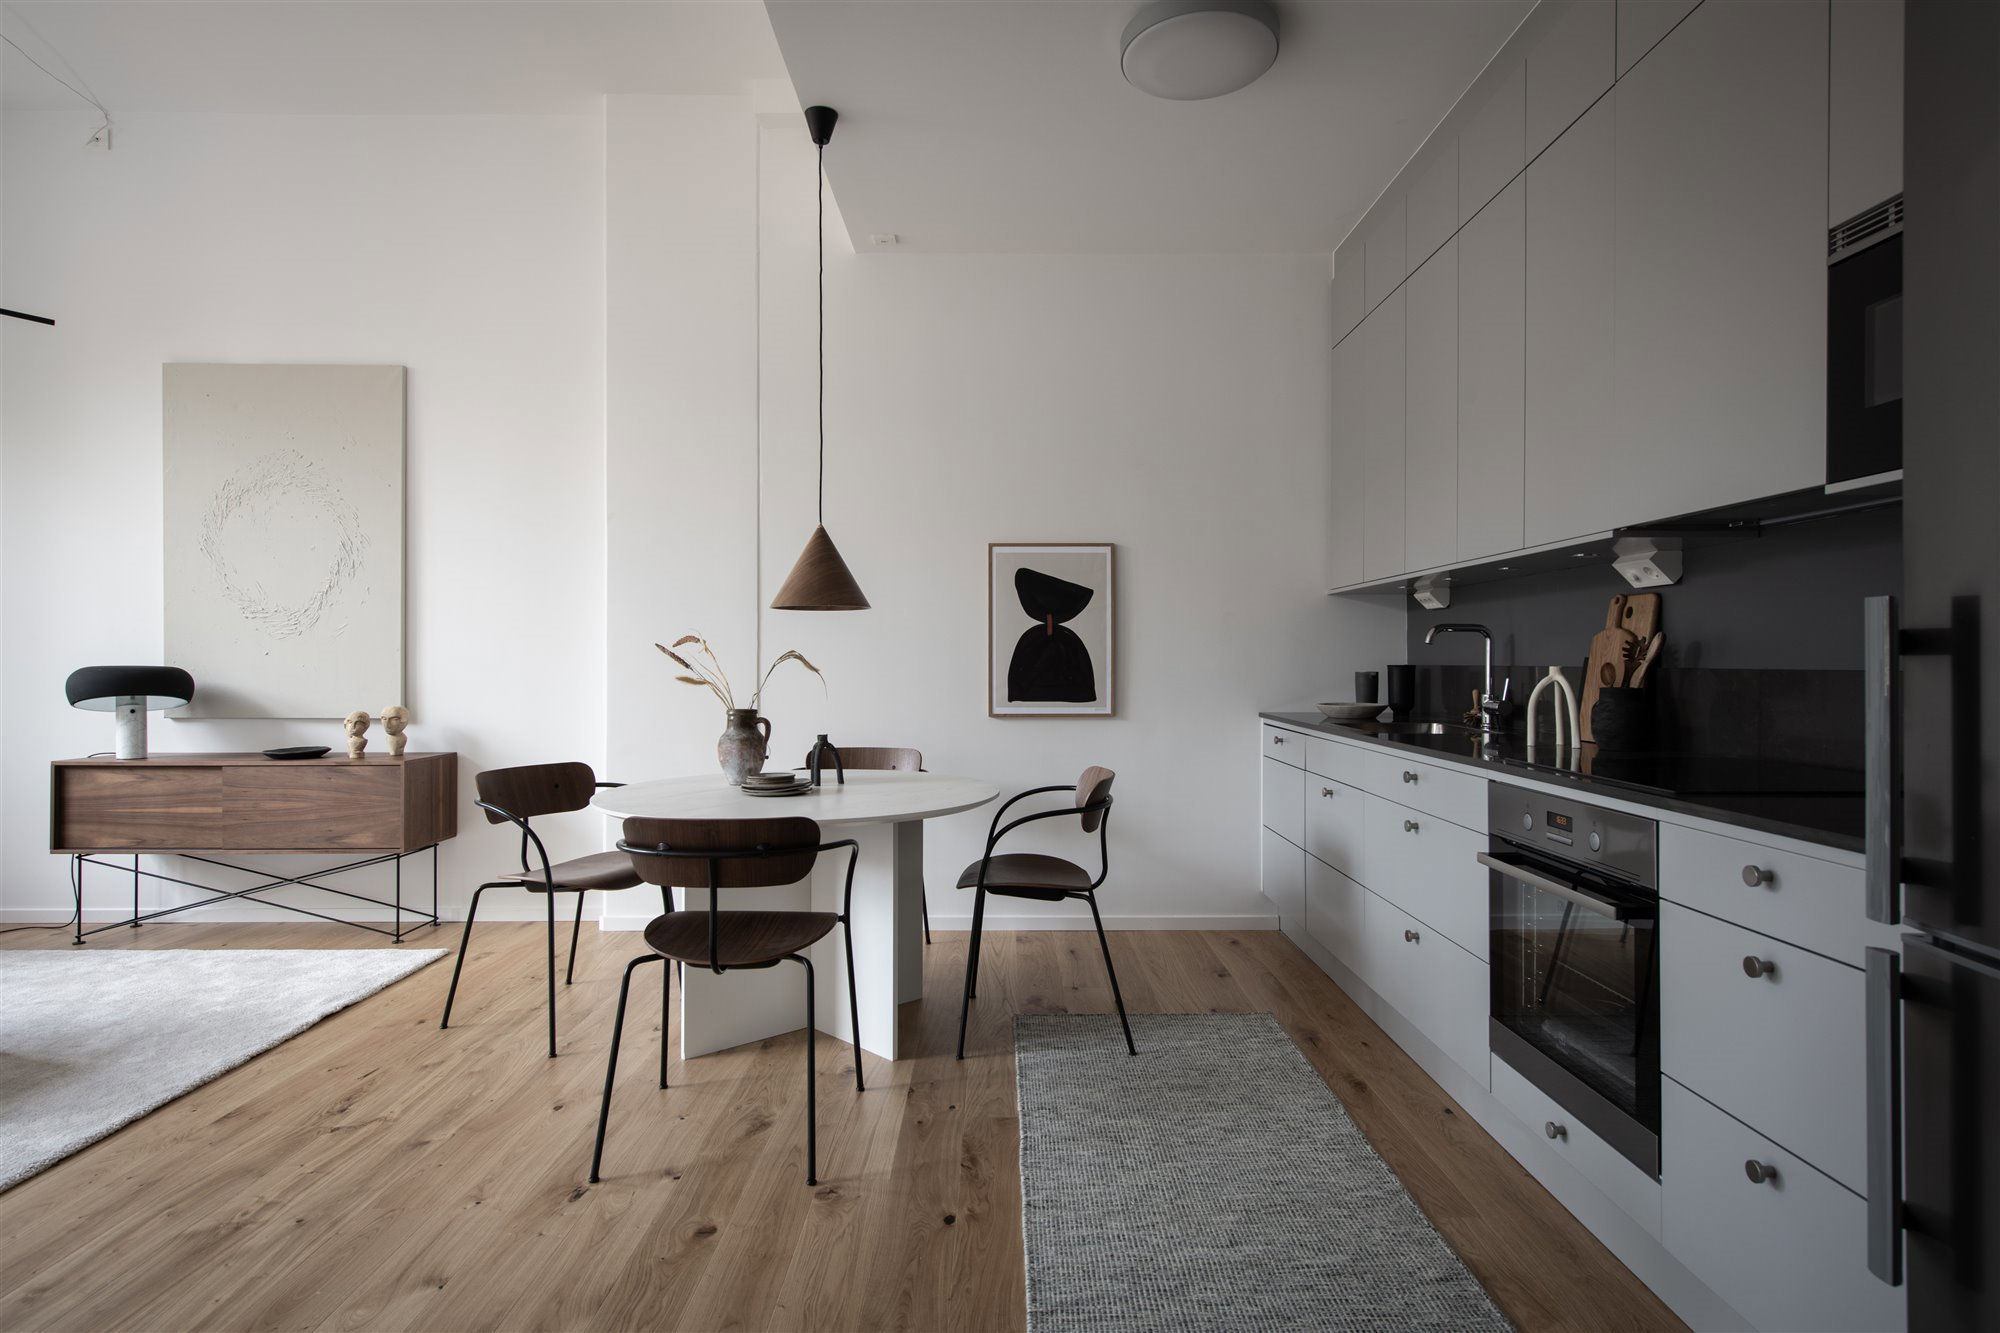
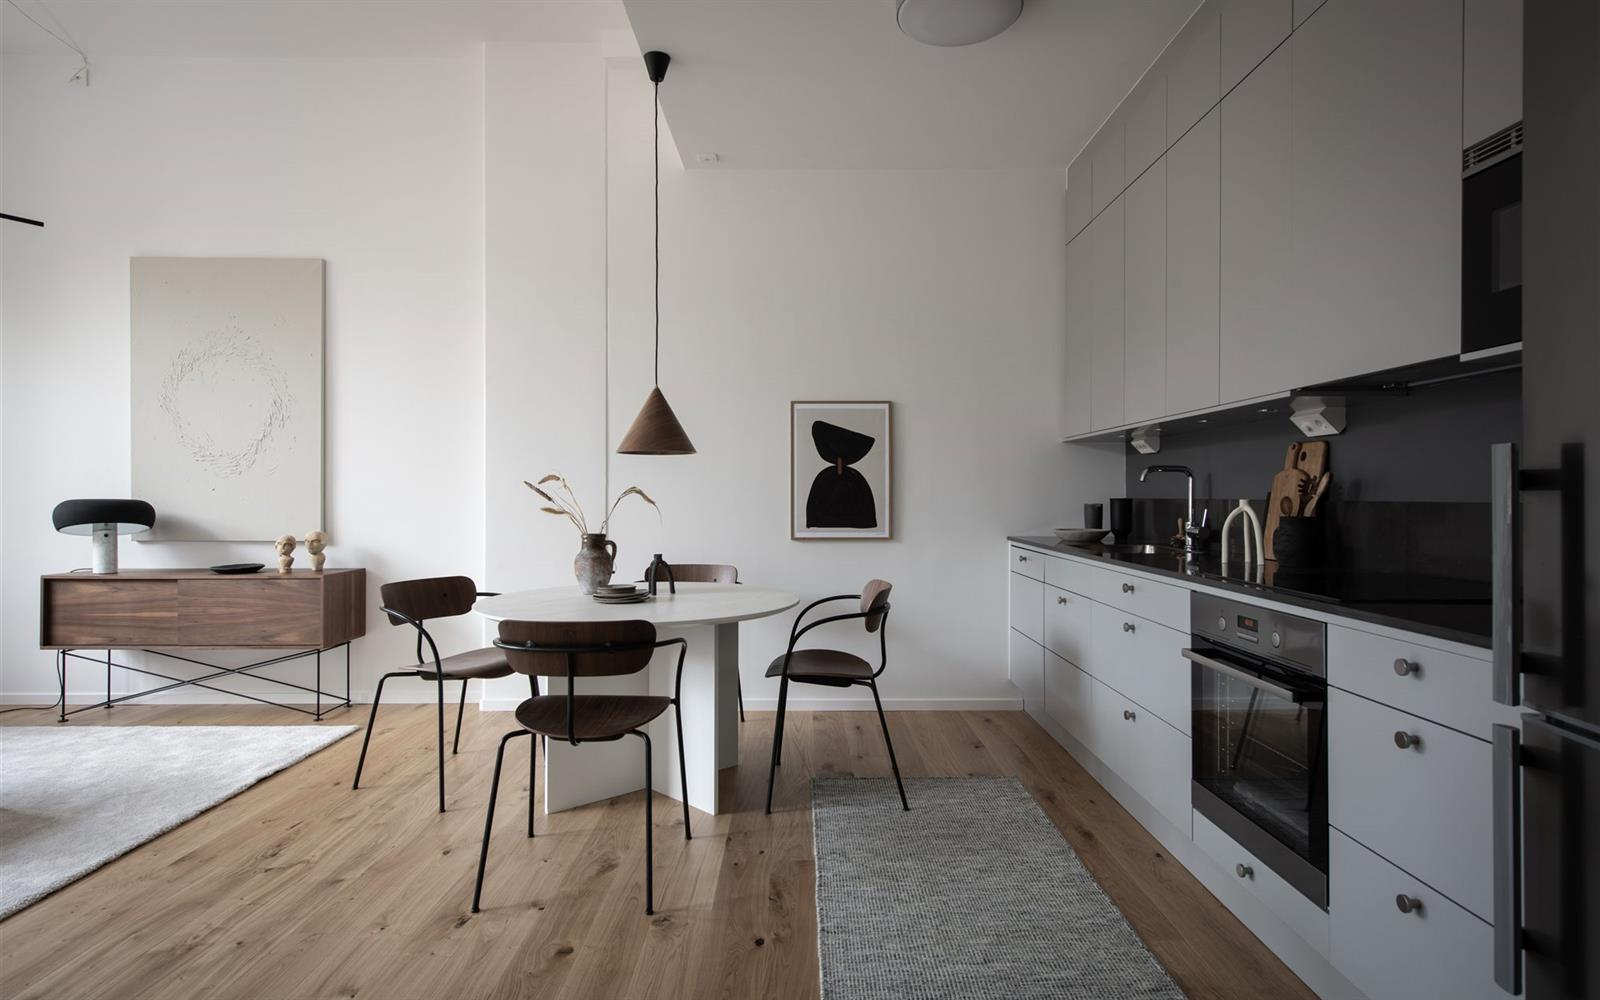
Corregir portfolio: crops 16:10, enlaces activos y tarjetas directas.
Miniaturas recortadas para tarjeta, Judith apunta a cestasyeventosjudith.vercel.app y LevelUp Interiores a levelupinteriores.es.

diff --git a/artifacts/levelup-design/src/components/ProjectCard.tsx b/artifacts/levelup-design/src/components/ProjectCard.tsx
@@ -1,5 +1,4 @@
 import { ArrowUpRight } from "lucide-react";
-import { cn } from "@/lib/utils";
 import type { Project } from "@/lib/projects";
 
 interface ProjectCardProps {
@@ -7,44 +6,38 @@ interface ProjectCardProps {
 }
 
 export function ProjectCard({ project }: ProjectCardProps) {
-  const {
-    title,
-    subtitle,
-    description,
-    image,
-    imagePosition,
-    imageAlt,
-    link,
-  } = project;
+  const { title, subtitle, description, image, imageAlt, link } = project;
 
   return (
     <a
       href={link}
       target="_blank"
       rel="noopener noreferrer"
+      aria-label={`Ver proyecto: ${title}`}
       className="group relative flex h-full w-full cursor-pointer flex-col overflow-hidden rounded-3xl border border-white/10 bg-gradient-to-br from-white/[0.07] to-white/[0.02] text-left backdrop-blur-sm transition-[transform,box-shadow,border-color] duration-500 ease-out hover:-translate-y-1 hover:border-brand/40 hover:shadow-[0_24px_48px_rgba(123,30,43,0.2),0_0_0_1px_rgba(123,30,43,0.06)] focus-visible:outline-none focus-visible:ring-2 focus-visible:ring-brand/60"
     >
-      <div className="relative aspect-[16/10] w-full overflow-hidden bg-[#0c0a0b]">
+      <div className="relative aspect-[16/10] w-full shrink-0 overflow-hidden bg-[#0c0a0b]">
         <img
           src={image}
           alt={imageAlt}
+          width={1600}
+          height={1000}
           loading="lazy"
           decoding="async"
-          className={cn(
-            "h-full w-full scale-[1.02] object-cover transition-transform duration-700 ease-[cubic-bezier(0.22,1,0.36,1)] group-hover:scale-[1.06]",
-            imagePosition,
-          )}
+          className="h-full w-full object-cover object-center transition-transform duration-700 ease-[cubic-bezier(0.22,1,0.36,1)] will-change-transform group-hover:scale-[1.04]"
         />
         <div
           aria-hidden
-          className="absolute inset-0 bg-gradient-to-t from-slate-950 via-slate-950/25 to-slate-950/5"
+          className="pointer-events-none absolute inset-0 bg-gradient-to-t from-slate-950/75 via-slate-950/15 to-transparent"
         />
         <div
           aria-hidden
-          className="absolute inset-0 bg-[radial-gradient(ellipse_at_top,rgba(123,30,43,0.12),transparent_55%)] opacity-0 transition-opacity duration-500 group-hover:opacity-100"
+          className="pointer-events-none absolute inset-0 bg-[radial-gradient(ellipse_at_top,rgba(123,30,43,0.14),transparent_55%)] opacity-0 transition-opacity duration-500 group-hover:opacity-100"
         />
-
-        <div className="absolute right-4 top-4 flex h-10 w-10 items-center justify-center rounded-full border border-white/15 bg-slate-950/50 text-white/90 opacity-0 backdrop-blur-md transition-all duration-500 group-hover:opacity-100">
+        <div
+          aria-hidden
+          className="pointer-events-none absolute right-4 top-4 flex h-10 w-10 items-center justify-center rounded-full border border-white/15 bg-slate-950/55 text-white opacity-0 backdrop-blur-md transition-all duration-500 group-hover:opacity-100"
+        >
           <ArrowUpRight className="h-4 w-4" />
         </div>
       </div>

diff --git a/artifacts/levelup-design/src/lib/projects.ts b/artifacts/levelup-design/src/lib/projects.ts
@@ -7,12 +7,13 @@ export interface Project {
   subtitle: string;
   description: string;
   image: string;
-  /** Clases Tailwind para el punto focal del recorte (object-cover) */
-  imagePosition: string;
   imageAlt: string;
   link: string;
   tags: string[];
 }
+
+/** URL activa de Judith en Vercel (evitar judith-web.vercel.app — 404). */
+export const JUDITH_PROJECT_URL = "https://cestasyeventosjudith.vercel.app";
 
 export const PROJECTS: Project[] = [
   {
@@ -22,10 +23,9 @@ export const PROJECTS: Project[] = [
     description:
       "Web cálida para cestas personalizadas y decoración de eventos en Málaga, orientada a captar clientes y presupuestos.",
     image: thumbJudith,
-    imagePosition: "object-[center_42%]",
     imageAlt:
-      "Detalle de cesta personalizada de la web de Judith Almansa, organizadora de eventos en Málaga",
-    link: "https://cestasyeventosjudith.vercel.app",
+      "Miniatura del proyecto web de Judith Almansa, organizadora de eventos en Málaga",
+    link: JUDITH_PROJECT_URL,
     tags: ["Web profesional", "Eventos", "Málaga"],
   },
   {
@@ -35,9 +35,8 @@ export const PROJECTS: Project[] = [
     description:
       "Web de confianza para reformas de cocinas, baños e integrales en Málaga, con foco en presupuestos y contacto directo.",
     image: thumbLevelupInteriores,
-    imagePosition: "object-[58%_center]",
     imageAlt:
-      "Interior de cocina reformada en la web de LevelUp Interiores, empresa de reformas en Málaga",
+      "Miniatura del proyecto web LevelUp Interiores, empresa de reformas en Málaga",
     link: "https://levelupinteriores.es",
     tags: ["Reformas", "Málaga", "Proyecto propio"],
   },